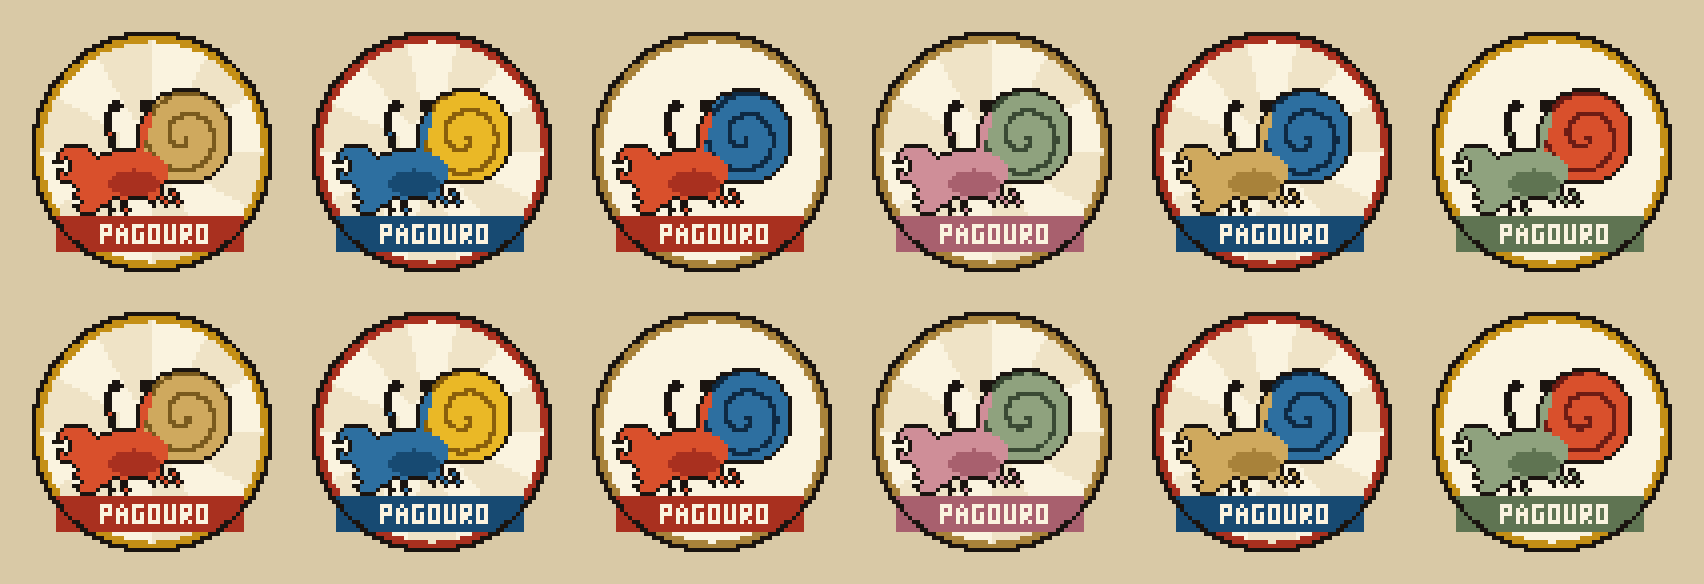
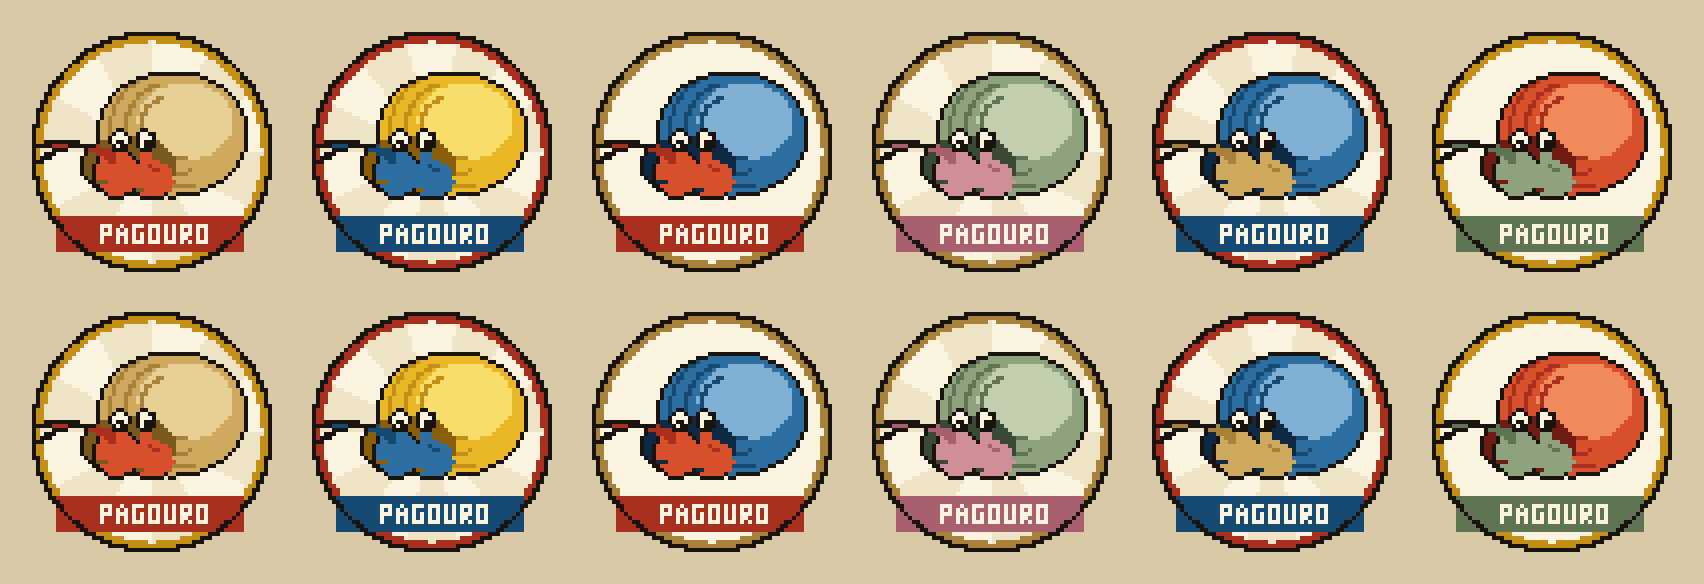
Mark: the crab retreated into its shell (Eric's configuration) — shell as the mass, folded claws and eyes at the mouth, one antenna; no body

diff --git a/app/mark.py b/app/mark.py
@@ -119,45 +119,55 @@ def mark(seed: int = 0, n: int = 64, band: bool = True) -> list[list[Pixel]]:
             d = math.hypot(x + 0.5 - c, y + 0.5 - c)
             if n * 0.43 <= d <= n * 0.47:
                 img[y][x] = R[ray_r][1]
-    # shell: spiral disc, tilted, upper right of centre
-    sx, sy, sr = c + n * 0.13, c - n * 0.06, n * 0.19
-    disc(img, sx, sy, sr, R[shell_r][2])
-    disc(img, sx, sy, sr, R[shell_r][1], only_on=None) if False else None
-    tilt = rng.uniform(-0.6, 0.6)
-    for i in range(0, 700):
-        a = math.radians(i) + tilt
-        r = sr * (i / 700.0) ** 0.75
-        x, y = int(sx + r * math.cos(a)), int(sy + r * math.sin(a))
-        if 0 <= x < n and 0 <= y < n and img[y][x] == R[shell_r][2]:
-            img[y][x] = R[shell_r][0]
-    # crab body: one flat plane — a wide ellipse under the shell's mouth, two big claws forward-left, legs
-    bx, by = c - n * 0.10, c + n * 0.09
+    # THE FIGURE (Eric, 2026-09-20): the crab retreated into its shell — the shell is the mass, the
+    # crab is only what shows at the mouth: two folded claws under the lip, eyes on short stalks
+    # peeking over them, thin antennae. No body. Seen from the front-left, shell high and behind.
+    shell = R[shell_r]
     body = R[crab_r][2]
-    ellipse(img, bx, by, n * 0.17, n * 0.10, body)
-    disc(img, bx - n * 0.20, by - n * 0.04, n * 0.085, body)      # big claw
-    disc(img, bx - n * 0.15, by + n * 0.10, n * 0.065, body)      # small claw
-    # pincer gaps
-    for (ox, oy, rr) in ((bx - n * 0.20, by - n * 0.04, n * 0.085), (bx - n * 0.15, by + n * 0.10, n * 0.065)):
-        for k in range(int(rr * 0.9)):
-            for dy in range(-(k // 3), k // 3 + 1):
-                x, y = int(ox - rr + k), int(oy + dy)
-                if 0 <= x < n and 0 <= y < n and img[y][x] == body:
-                    img[y][x] = paper if img[y][x] == body else img[y][x]
-    for k in range(3):                                            # legs: three strokes each side, flat
-        stroke(img, [(bx - n * 0.02 - k * n * 0.06 + j * 0.3, by + n * 0.08 + j * 0.9) for j in range(int(n * 0.08))], body, 1.6)
-        stroke(img, [(bx + n * 0.08 + k * n * 0.05 + j * 0.5, by + n * 0.07 + j * 0.8) for j in range(int(n * 0.07))], body, 1.6)
-    # eyes on whiplash stalks (Art Nouveau curve), dots in ink
-    for side in (-1, 1):
-        p0 = (bx + side * n * 0.04, by - n * 0.08)
-        p1 = (bx + side * n * 0.10, by - n * 0.24)
-        p2 = (bx + side * n * 0.02 + (n * 0.06 if side > 0 else -n * 0.02), by - n * 0.27)
-        stroke(img, bezier(p0, p1, p2), body, 1.4)
-        ex, ey = p2
-        disc(img, ex, ey, 1.6, ink)
-    # a darker plane on the body for the poster's two-tone shadow
-    ellipse(img, bx + n * 0.03, by + n * 0.03, n * 0.10, n * 0.05, R[crab_r][1], only_on=body)
-    # single heavy contour around crab + shell
-    outline(img, {R[crab_r][2], R[crab_r][1], R[shell_r][2], R[shell_r][0]}, ink, width=2 if n >= 64 else 1)
+    sx, sy = c + n * 0.08, c - n * 0.07          # shell centre, right and high
+    srx, sry = n * 0.30, n * 0.25                # a fat ellipse, the apex up-right
+    ellipse(img, sx, sy, srx, sry, shell[2])
+    ellipse(img, sx + n * 0.05, sy - n * 0.05, srx * 0.62, sry * 0.6, shell[3], only_on=shell[2])   # highlight plane
+    # growth lines: three arcs following the shell, in the dark shell tone (the poster's two-tone shading)
+    for k, f in enumerate((0.92, 0.72, 0.52)):
+        for i in range(0, 360, 2):
+            a = math.radians(i)
+            x, y = sx + n * 0.03 + srx * f * math.cos(a) * 0.98, sy - n * 0.03 + sry * f * math.sin(a)
+            if -1.3 < a - math.pi * 0.85 < 1.6 and 0 <= int(x) < n and 0 <= int(y) < n and img[int(y)][int(x)] in (shell[2], shell[3]):
+                img[int(y)][int(x)] = shell[1]
+    # the aperture: a dark opening low-left of the shell, where the crab lives
+    ax, ay = sx - srx * 0.58, sy + sry * 0.50
+    ellipse(img, ax, ay, n * 0.19, n * 0.12, shell[0])
+    # claws: two knuckled lobes folded under the lip, filling the opening; the big one forward-left
+    cx1, cy1 = ax - n * 0.04, ay + n * 0.03
+    disc(img, cx1, cy1, n * 0.10, body)
+    outline(img, {body}, ink, width=1)
+    disc(img, cx1 + n * 0.14, cy1 + n * 0.03, n * 0.08, body)
+    # knuckle lines and the pincer notch
+    for (ox, oy, rr) in ((cx1, cy1, n * 0.10), (cx1 + n * 0.14, cy1 + n * 0.03, n * 0.08)):
+        for k in range(int(rr * 0.8)):
+            x, y = int(ox - rr * 0.2 + k * 0.6), int(oy - rr + k * 0.9)
+            if 0 <= x < n and 0 <= y < n and img[y][x] == body:
+                img[y][x] = R[crab_r][1]
+        for k in range(int(rr * 0.7)):                       # pincer gap on the outer edge
+            x, y = int(ox - rr + k), int(oy + rr * 0.35)
+            if 0 <= x < n and 0 <= y < n and img[y][x] == body:
+                img[y][x] = shell[0]
+    # eyes: two short stalks rising from between the claws and the lip, big dark eyes on top
+    for k, ex in enumerate((cx1 + n * 0.01, cx1 + n * 0.11)):
+        ey = ay - n * 0.09
+        stroke(img, [(ex, ey + j * 0.5) for j in range(int(n * 0.16))], body, 1.8)
+        disc(img, ex, ey - n * 0.01, n * 0.042, ink)
+        disc(img, ex, ey - n * 0.01, n * 0.030, R["poster"][3])
+        disc(img, ex + n * 0.005, ey, n * 0.017, ink)
+    # antennae: the one whiplash line, out to the left and up
+    for k, sign in enumerate((1.0, 0.7)):
+        p0 = (cx1 - n * 0.02, ay - n * 0.02 - k * n * 0.03)
+        p1 = (cx1 - n * 0.16, ay - n * 0.14 * sign)
+        p2 = (cx1 - n * 0.30, ay - n * 0.02 - k * n * 0.06)
+        stroke(img, bezier(p0, p1, p2), R[crab_r][1], 1.1)
+    # single heavy contour around the whole figure (shell + claws + stalks), in ink
+    outline(img, {shell[0], shell[1], shell[2], shell[3], body, R[crab_r][1]}, ink, width=2 if n >= 64 else 1)
     # band with lettering
     if band:
         y0 = int(c + n * 0.26)
